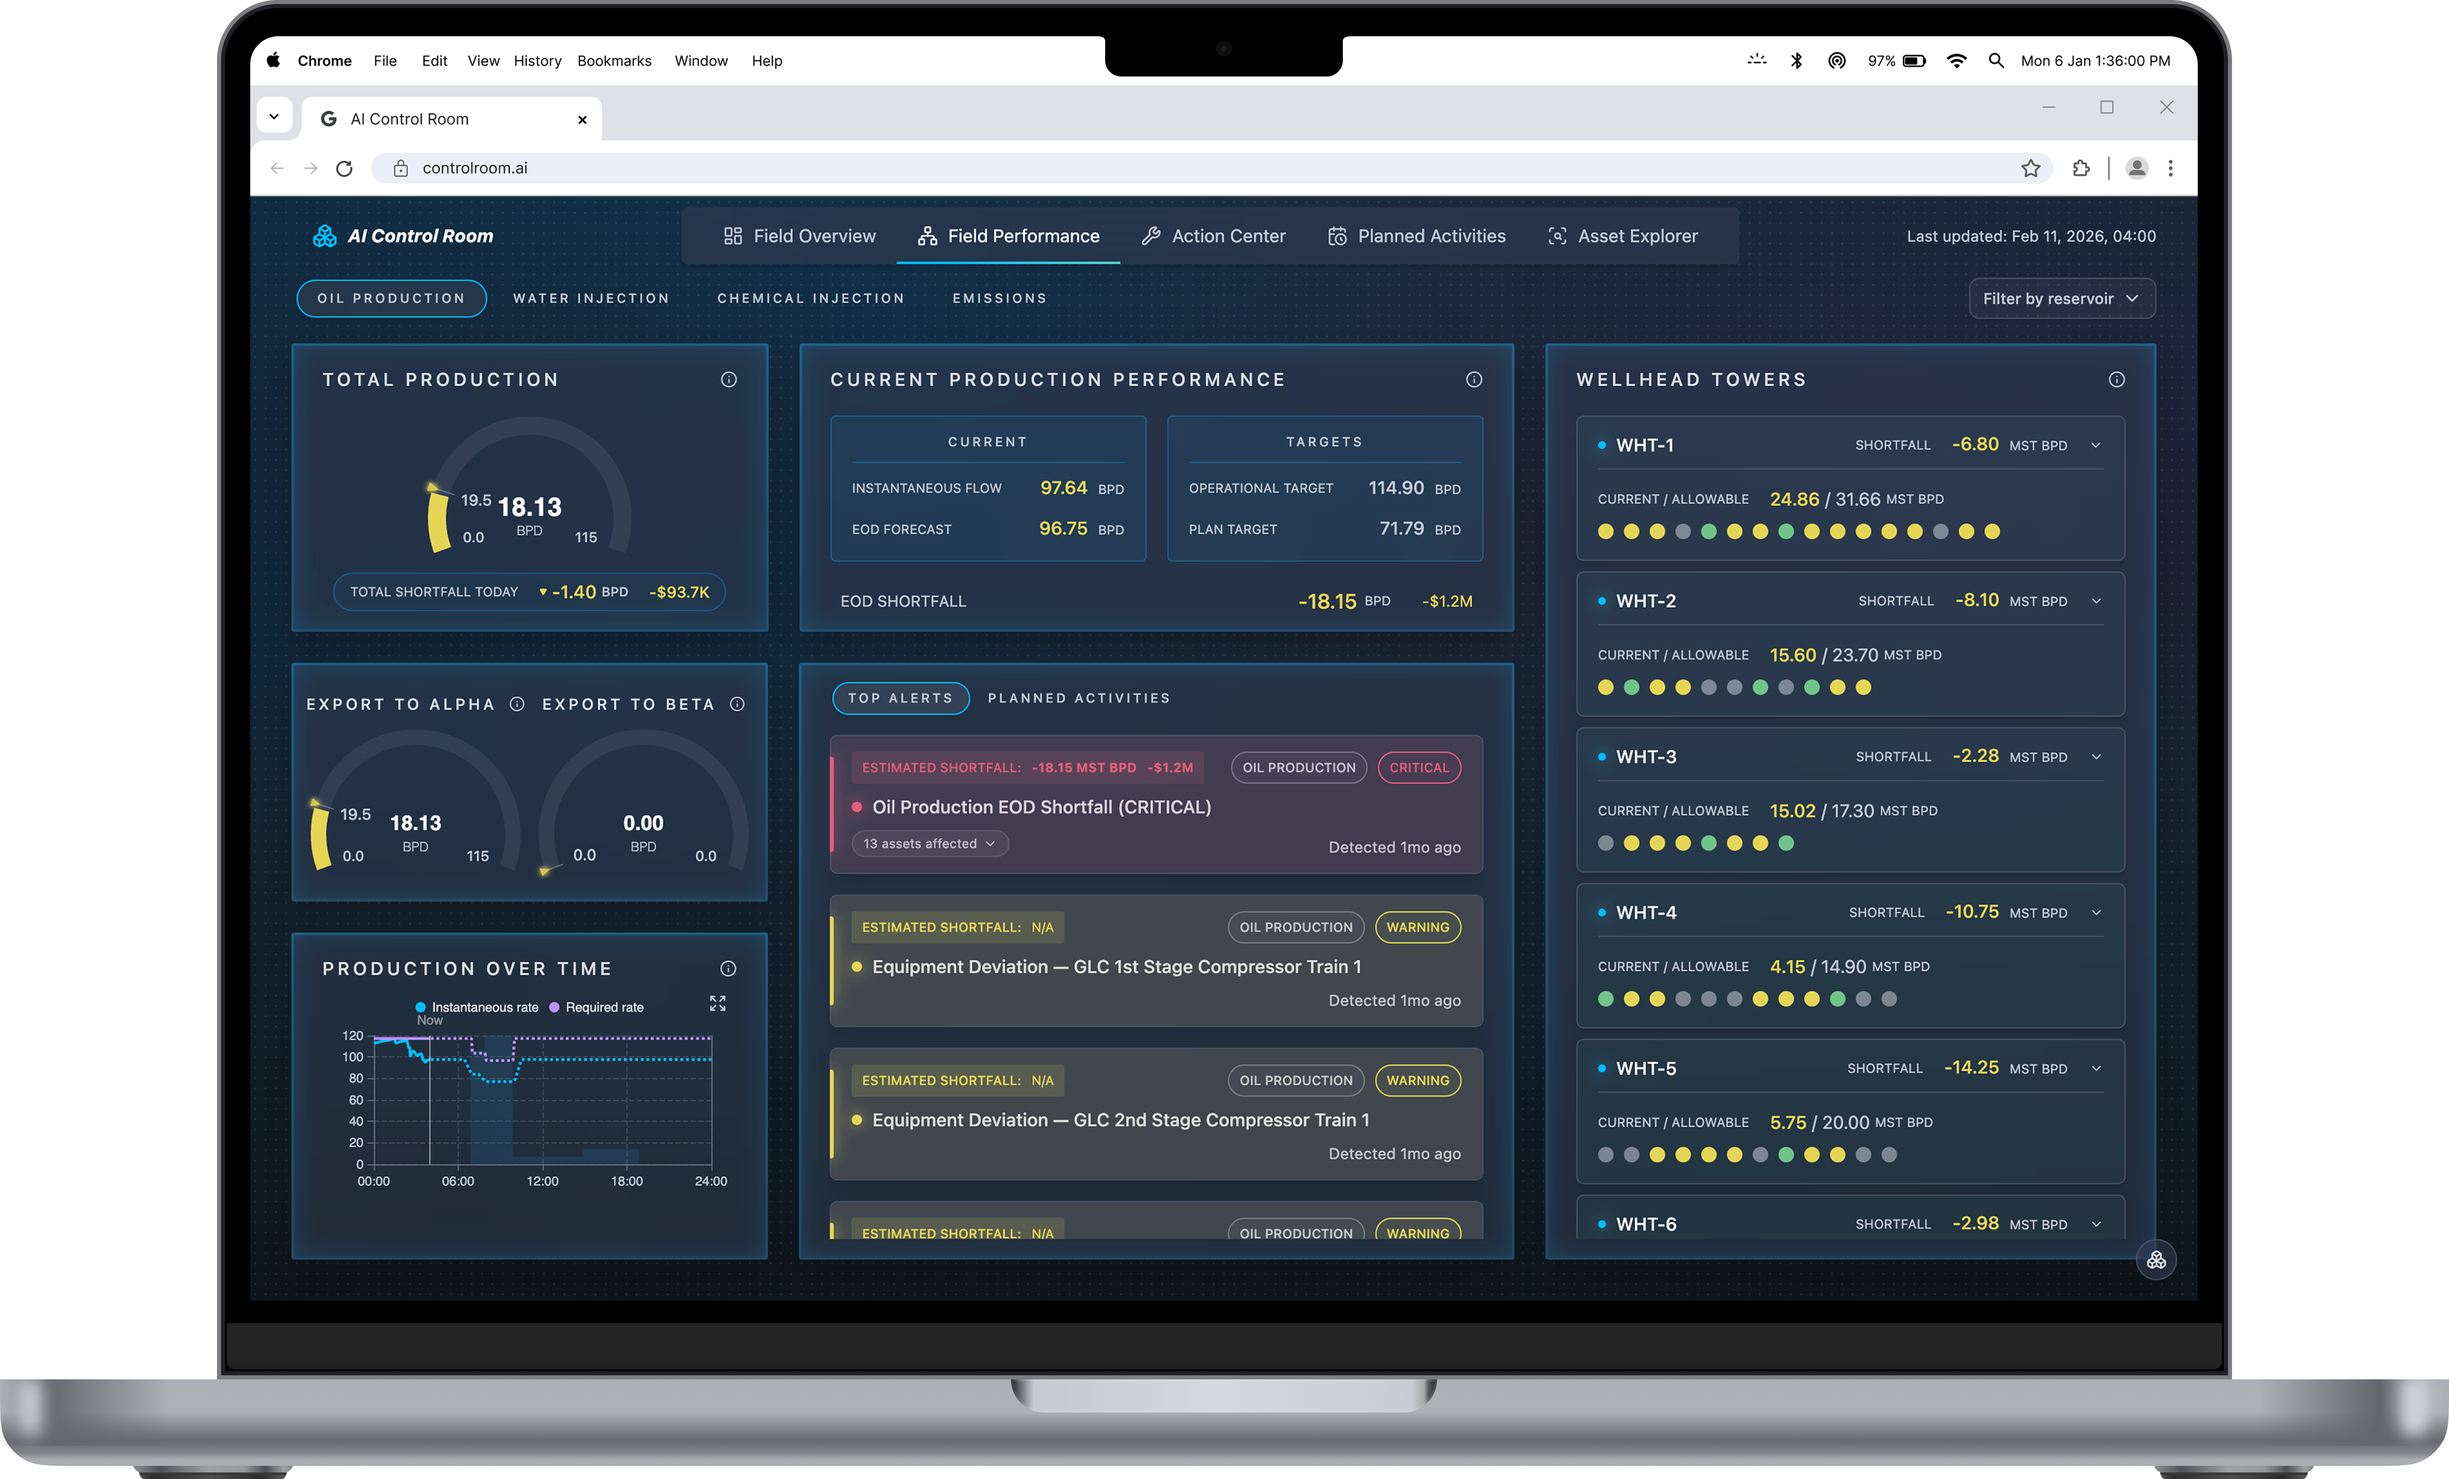
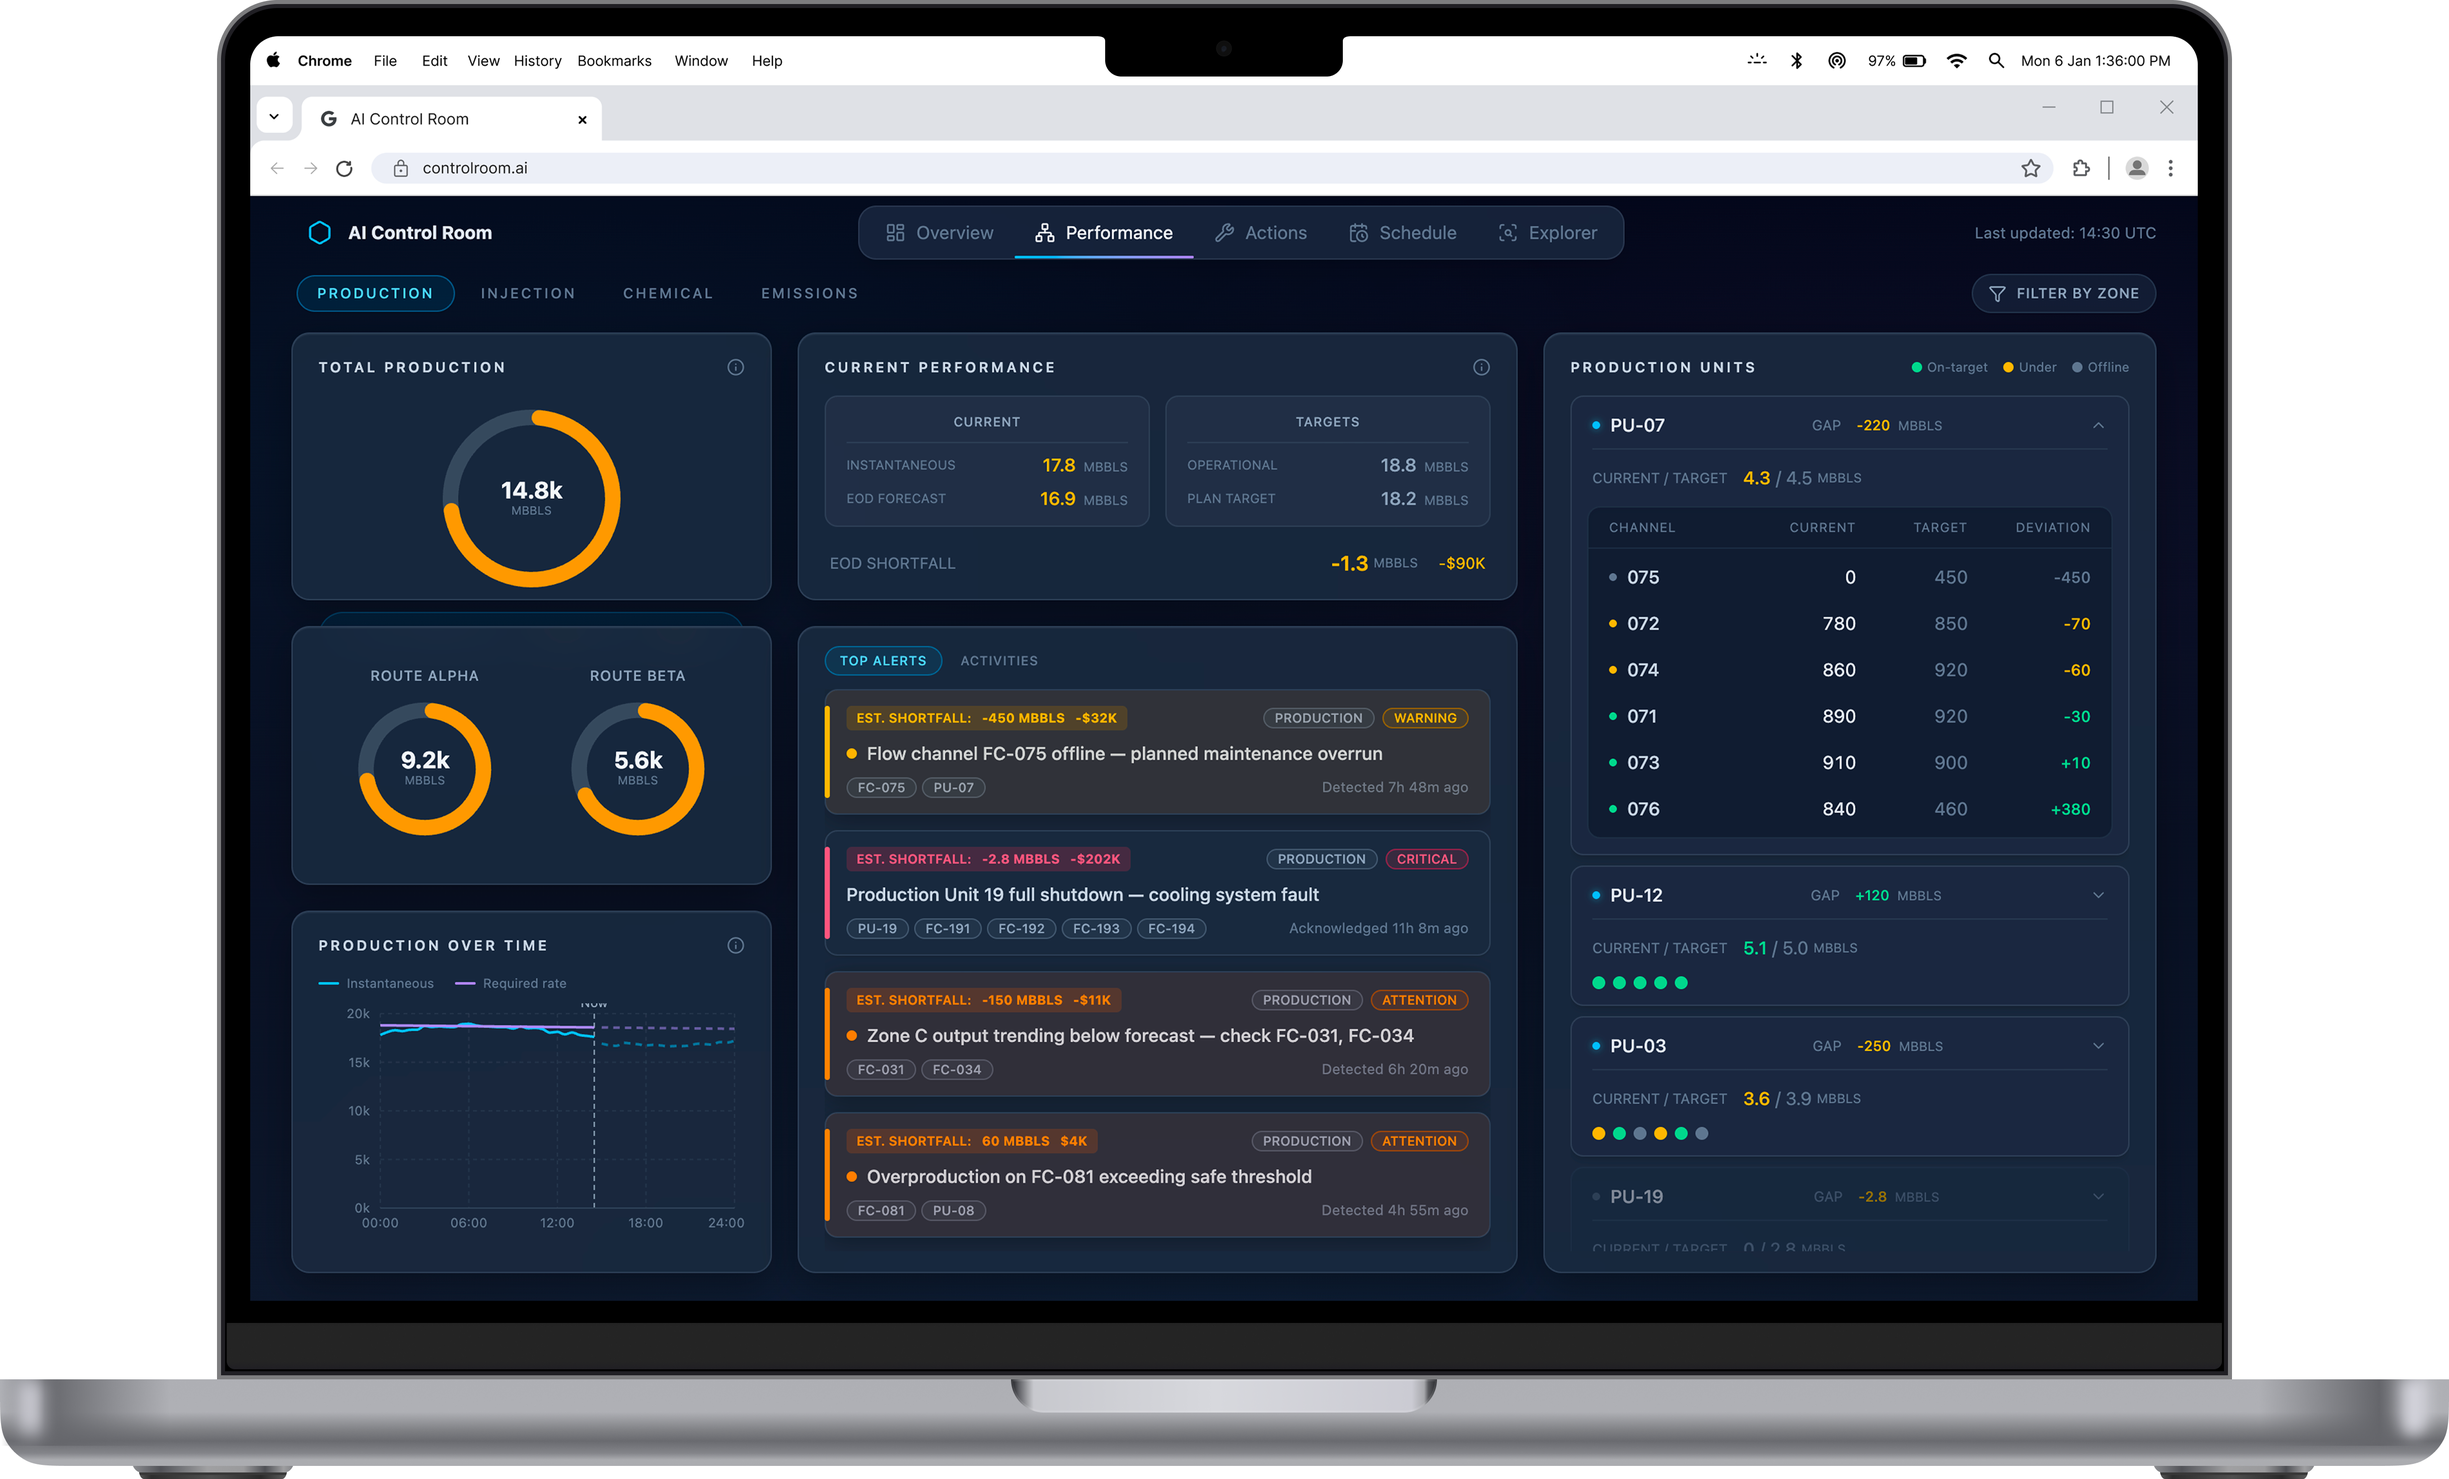
update sanitized visuals

Changed region(s): [[0.0938, 0.1239, 0.9062, 0.8673], [0.2188, 0.7743, 0.2812, 0.8053]]

diff --git a/app/components/case-study/mockup.tsx b/app/components/case-study/mockup.tsx
@@ -15,6 +15,7 @@
 "use client";
 
 import { useEffect, useState } from "react";
+import { Lock } from "lucide-react";
 import { cn } from "@/app/lib/utils";
 
 interface MockupProps {
@@ -60,6 +61,21 @@ export default function Mockup({ className, id, align }: MockupProps) {
             : "landscape:-left-1/8 lg:-left-1/8",
         )}
       />
+      <div
+        className={cn(
+          "flex flex-row items-center gap-2 absolute text-muted text-label-sm tracking-wide whitespace-nowrap",
+
+          // Mobile → centered
+          "portrait:max-lg:bottom-1 portrait:max-lg:left-1/2 portrait:max-lg:-translate-x-1/2 portrait:max-lg:text-center",
+
+          // Desktop → edge aligned
+          "bottom-3",
+          align === "left" ? "lg:left-6" : "lg:right-6",
+        )}
+      >
+        <Lock className="w-3 h-3 text-muted" />
+        <p>Product visuals adapted to protect client confidentiality.</p>
+      </div>
     </div>
   );
 }
